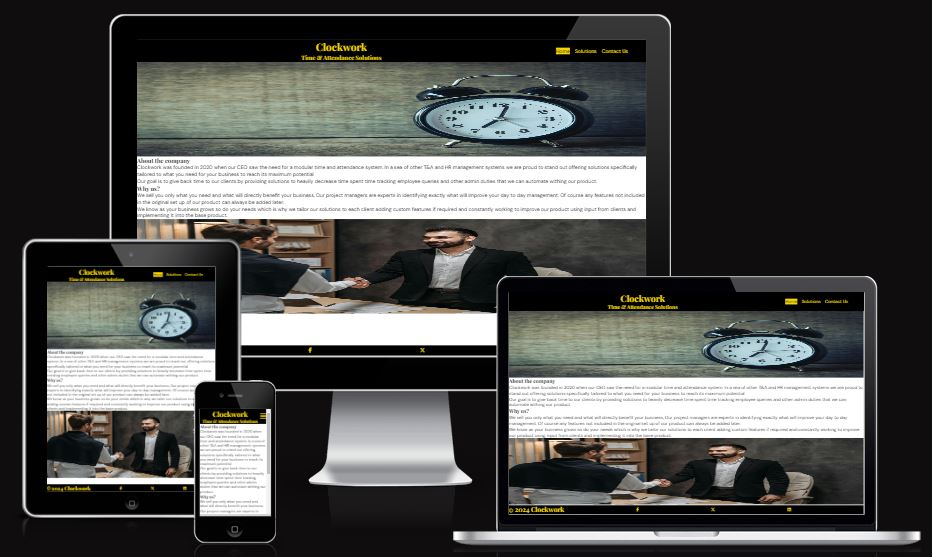
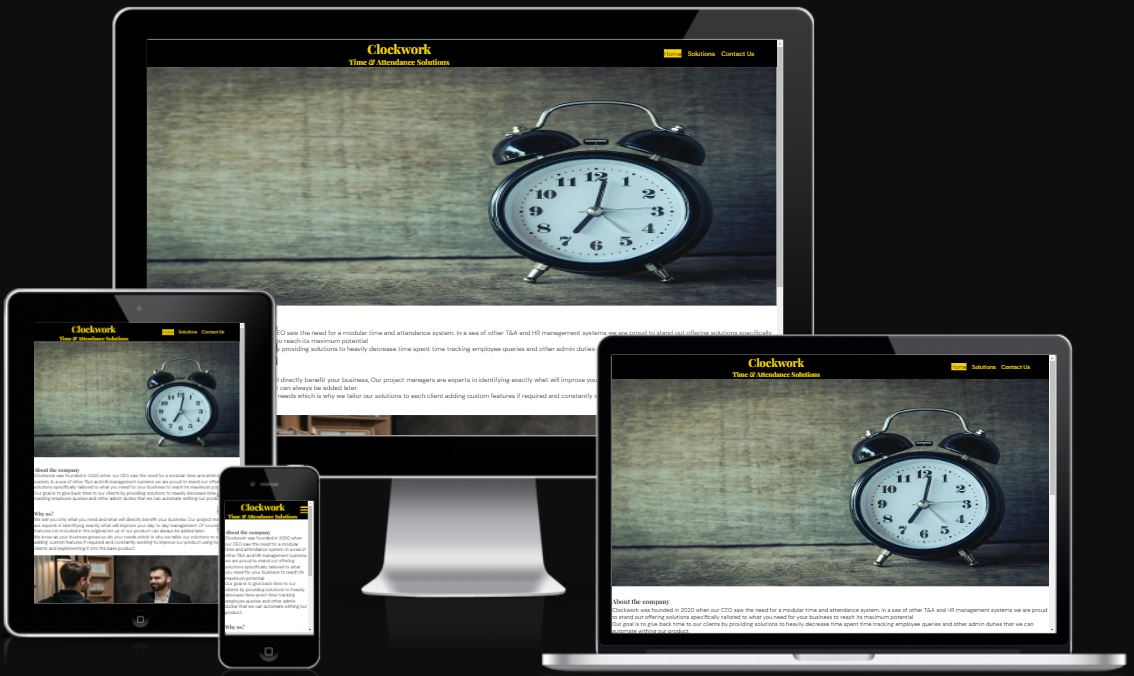
Readded wireframes to README

diff --git a/README.md b/README.md
@@ -1,4 +1,5 @@
 # Clockwork 
+https://stephenb117.github.io/pp1-clockwork/
 
 Clockworks website is intended for management and HR professionals seeking time and attendance solutions as well as an all in one HR management platform. 
 
@@ -26,9 +27,40 @@ Naviagtion between the pages to be done using the links contained in the header 
 
 When hovering over any links the background changes color for visual clarity on what the user is mousing over when on desktop. 
 
-![Picture of the website wireframe](/assets/images/pp1-website-view.png)
-![Picture of the Tablet wireframe](/assets/images/pp1-tablet-view.png)
-![Picture of the Mobile wireframe](/assets/images/pp1-smartphone-view.png)
+Website index.html wireframe
+![Picture of the website index wireframe](/assets/images/pp1-desktop-index.png)
+
+Website solutions.html wireframe
+![Picture of the website solutions wireframe](/assets/images/pp1-desktop-solutions.png)
+
+Website contact.html wireframe
+![Picture of the website contact wireframe](/assets/images/pp1-desktop-contact.png)
+
+Tablet index.html wireframe
+
+![Picture of the tablet index wireframe](/assets/images/pp1-tablet-index.png)
+
+Tablet solutions.html wireframe
+
+![Picture of the tablet solutions wireframe](/assets/images/pp1-tablet-solutions.png)
+
+Tablet contact.html wireframe
+
+![Picture of the tablet contact wireframe](/assets/images/pp1-tablet-contact.png)
+
+Mobile index.html wireframe
+
+![Picture of the mobile index wireframe](/assets/images/pp1-mobile-index.png)
+
+Mobile solutions.html wireframe
+
+![Picture of the mobile solutions wireframe](/assets/images/pp1-mobile-solutions.png)
+
+Mobile contact.html wireframe
+
+![Picture of the mobile contact wireframe](/assets/images/pp1-mobile-contact.png)
+
+
 ## Features
 
 ### Features in all pages
@@ -95,9 +127,9 @@ Regression Testing:
 |Submitting form on contact us with all information entered| Users should be redirected to Code Institues formdump page and see the information they entered|Pass| 
 |Clicking on the Home link| Opens and loads index.html|Pass|
 |Clicking on the company name in the header|Opens and loads index.html|Pass|
-|Clicking on Facebook icon in footer|Opens and loads facebook.com|Pass|
-|Clicking on X icon in footer|Opens and loads x.com|Pass|
-|Clicking on LinkedIn icon in footer|Opens and loads linkedin.com|Pass|
+|Clicking on Facebook icon in footer|Opens and loads facebook.com in new tab|Pass|
+|Clicking on X icon in footer|Opens and loads x.com in new tab|Pass|
+|Clicking on LinkedIn icon in footer|Opens and loads linkedin.com in new tab|Pass|
 
 Lighthouse report: 
 
